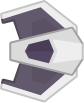
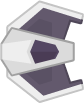
add enemy baseclass and vanguard

diff --git a/RainEngine/src/framework/Actor.cpp b/RainEngine/src/framework/Actor.cpp
@@ -121,7 +121,7 @@ namespace rn
 		return _owner->GetWindowSize();
 	}
 
-	bool Actor::IsActorOutOfBounds() const
+	bool Actor::IsActorOutOfBounds(float tolerance) const
 	{
 		float windowWidth = GetWindowSize().x;
 		float windowHeight = GetWindowSize().y;
@@ -132,13 +132,13 @@ namespace rn
 		sf::Vector2f actorPosition = GetActorLocation();
 
 		// Left						   or	Right
-		if ((actorPosition.x < -width) || (actorPosition.x > windowWidth + width))
+		if ((actorPosition.x < -width - tolerance) || (actorPosition.x > windowWidth + width + tolerance))
 		{
 			return true;
 		}
 
 		// Up							or	Down
-		if ((actorPosition.y < -height) || (actorPosition.y > windowHeight + height))
+		if ((actorPosition.y < -height - tolerance) || (actorPosition.y > windowHeight + height + tolerance))
 		{
 			return true;
 		}
@@ -178,6 +178,9 @@ namespace rn
 
 	bool Actor::IsOtherHostile(Actor* other) const
 	{
+		if (other == nullptr)
+			return false;
+
 		if (GetTeamID() == GetNeutralTeamID() || other->GetTeamID() == GetNeutralTeamID())
 		{
 			return false;

diff --git a/RainGame/src/gameFramework/GameApplication.cpp b/RainGame/src/gameFramework/GameApplication.cpp
@@ -1,3 +1,4 @@
+#include "Enemy/Vanguard.h"
 #include "gameFramework/GameApplication.h"
 #include "framework/World.h"
 #include "framework/Actor.h"
@@ -22,10 +23,8 @@ namespace rn
 		_playerSpaceship.lock()->SetActorLocation({ 300, 490 });
 		_playerSpaceship.lock()->SetActorRotation(-90.0f);
 
-		weak<Spaceship> testSpaceship = newWorld.lock()->SpawnActor<Spaceship>();
-		testSpaceship.lock()->SetTexture("SpaceShooterRedux/PNG/playerShip1_blue.png");
-		testSpaceship.lock()->SetActorLocation(sf::Vector2f{ 100.0f, 50.0f });
-		testSpaceship.lock()->SetTeamID(2);
+		weak<Vanguard> enemySpaceship = newWorld.lock()->SpawnActor<Vanguard>();
+		enemySpaceship.lock()->SetActorLocation(sf::Vector2f{ 100.0f, 50.0f });
 		_counter = 0;
 	}
 

diff --git a/RainGame/src/Enemy/EnemySpaceship.cpp b/RainGame/src/Enemy/EnemySpaceship.cpp
@@ -1,0 +1,30 @@
+#include "Enemy/EnemySpaceship.h"
+
+namespace rn
+{
+	EnemySpaceship::EnemySpaceship(World* owner, const std::string& texturePath, float collisionDamage)
+		: Spaceship{ owner, texturePath }, _collisionDamage{ collisionDamage }
+	{
+		SetTeamID(2);
+	}
+
+	void EnemySpaceship::Tick(float deltaTime)
+	{
+		Spaceship::Tick(deltaTime);
+
+		if (IsActorOutOfBounds(GetActorGlobalBounds().width))
+		{
+			Destroy();
+		}
+	}
+
+	void EnemySpaceship::OnActorBeginOverlap(Actor* other)
+	{
+		Spaceship::OnActorBeginOverlap(other);
+
+		if (IsOtherHostile(other))
+		{
+			other->ApplyDamage(_collisionDamage);
+		}
+	}
+}

diff --git a/RainGame/src/Enemy/Vanguard.cpp b/RainGame/src/Enemy/Vanguard.cpp
@@ -1,0 +1,24 @@
+#include "Enemy/Vanguard.h"
+#include "Weapon/BulletShooter.h"
+
+namespace rn
+{
+	Vanguard::Vanguard(World* owner, const std::string& texturePath, const sf::Vector2f velocity)
+		: EnemySpaceship{ owner, texturePath }, _shooter{ new BulletShooter{this} }
+	{
+		SetVelocity(velocity);
+		SetActorRotation(90.0f);
+	}
+
+	void Vanguard::Tick(float deltaTime)
+	{
+		EnemySpaceship::Tick(deltaTime);
+
+		Shoot();
+	}
+
+	void Vanguard::Shoot()
+	{
+		_shooter->Shoot();
+	}
+}

diff --git a/RainGame/include/Enemy/Vanguard.h b/RainGame/include/Enemy/Vanguard.h
@@ -1,0 +1,23 @@
+#pragma once
+
+#include "Enemy/EnemySpaceship.h"
+
+namespace rn
+{
+	class BulletShooter;
+
+	class Vanguard : public EnemySpaceship
+	{
+	public:
+		Vanguard(World* owner, const std::string& texturePath = "SpaceShooterRedux/PNG/Enemies/enemyBlue3.png",
+					const sf::Vector2f velocity = {0.0f, 50.0f});
+		
+		virtual void Tick(float deltaTime) override;
+
+	private:
+		virtual void Shoot() override;
+
+	private:
+		unique<BulletShooter> _shooter;
+	};
+}

diff --git a/RainGame/include/Enemy/EnemySpaceship.h b/RainGame/include/Enemy/EnemySpaceship.h
@@ -1,0 +1,20 @@
+#pragma once
+
+#include "Spaceship/Spaceship.h"
+
+namespace rn
+{
+	class EnemySpaceship : public Spaceship
+	{
+	public: 
+		EnemySpaceship(World* owner, const std::string& texturePath, float collisionDamage = 200.0f);
+
+		virtual void Tick(float deltaTime) override;
+
+	private:
+		virtual void OnActorBeginOverlap(Actor* other) override;
+
+	private:
+		float _collisionDamage;
+	};
+}

diff --git a/RainEngine/include/framework/Actor.h b/RainEngine/include/framework/Actor.h
@@ -42,7 +42,7 @@ namespace rn
 		const World* GetWorld() const { return _owner; }
 		World* GetWorld() { return _owner; }
 
-		bool IsActorOutOfBounds() const;
+		bool IsActorOutOfBounds(float tolerance = 10.0f) const;
 
 		void SetEnablePhysics(bool enable);
 
